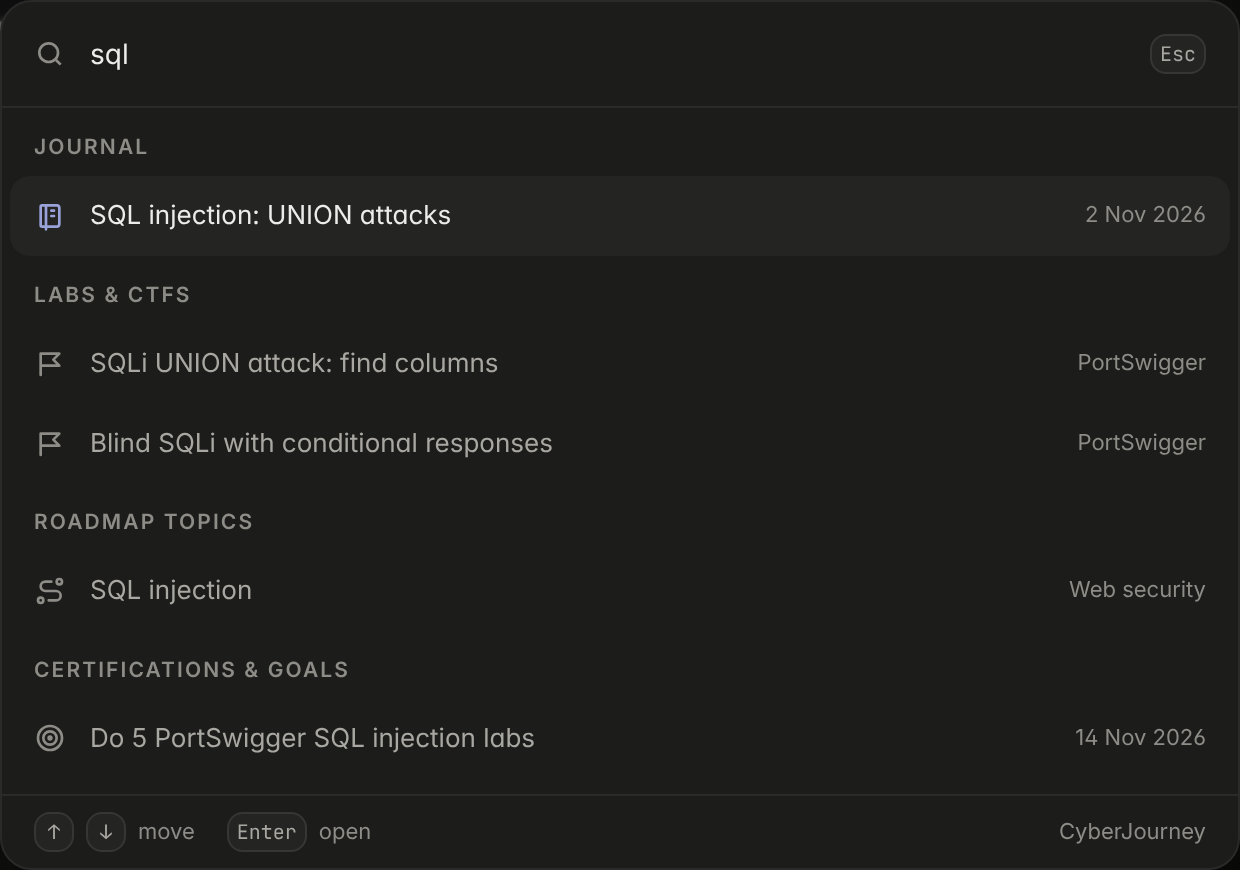
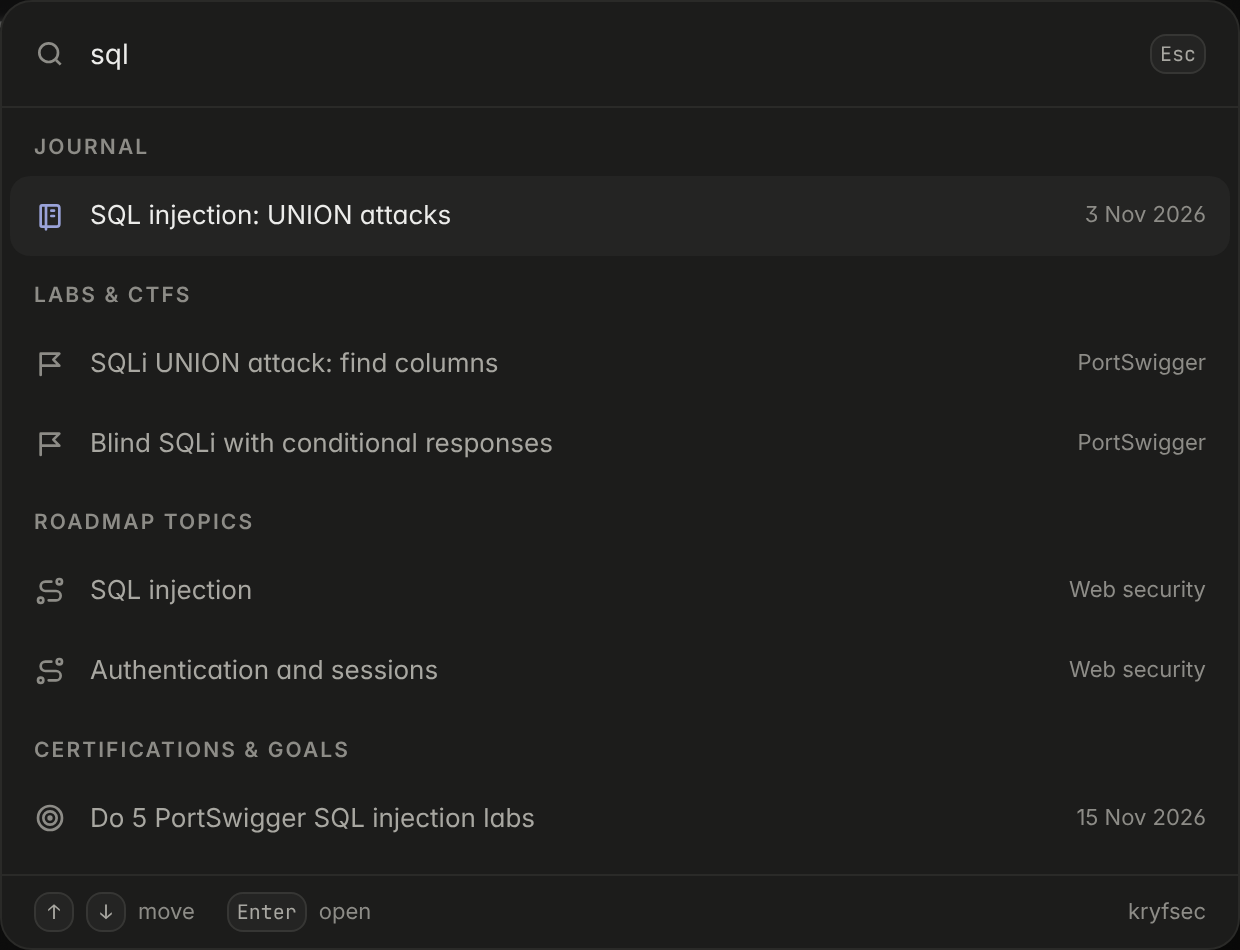
Rename the app to kryfsec and copy data from the old app folder
- productName, appId (com.kryfsec.desktop), window title, HTML title, UI text,
  export file names and installer names now use kryfsec
- data file is now <userData>/kryfsec.json; on first start the old
  CyberJourney data file and its .bak are copied over (old files are kept)
- refresh screenshots that show the name

diff --git a/electron/main.ts b/electron/main.ts
@@ -1,9 +1,31 @@
 import { app, BrowserWindow, dialog, ipcMain, nativeTheme, shell } from 'electron'
-import { existsSync, mkdirSync, writeFileSync } from 'node:fs'
+import { copyFileSync, existsSync, mkdirSync, writeFileSync } from 'node:fs'
 import { readFile, rename, writeFile, copyFile } from 'node:fs/promises'
 import { join } from 'node:path'
 
-const DATA_FILE = (): string => join(app.getPath('userData'), 'cyberjourney.json')
+const DATA_FILE = (): string => join(app.getPath('userData'), 'kryfsec.json')
+
+// One-time move from the old app name. Older versions saved their data in
+// <appData>/<old name>/<old name>.json. If the new file is not there yet,
+// copy the old file (and its .bak) over. The old files are left in place.
+const OLD_DIR_NAMES = ['Cyber' + 'Journey', 'cyber' + 'journey']
+const OLD_FILE_NAME = 'cyber' + 'journey.json'
+function migrateOldData(): void {
+  try {
+    const file = DATA_FILE()
+    if (existsSync(file) || existsSync(file + '.bak')) return
+    for (const dirName of OLD_DIR_NAMES) {
+      const oldFile = join(app.getPath('appData'), dirName, OLD_FILE_NAME)
+      if (!existsSync(oldFile) && !existsSync(oldFile + '.bak')) continue
+      mkdirSync(app.getPath('userData'), { recursive: true })
+      if (existsSync(oldFile)) copyFileSync(oldFile, file)
+      if (existsSync(oldFile + '.bak')) copyFileSync(oldFile + '.bak', file + '.bak')
+      return
+    }
+  } catch (err) {
+    console.error('Could not copy data from the old app folder', err)
+  }
+}
 
 let win: BrowserWindow | null = null
 let lastMaxChange = 0
@@ -22,7 +44,7 @@ function createWindow(): void {
     resizable: true,
     maximizable: true,
     minimizable: true,
-    title: 'CyberJourney',
+    title: 'kryfsec',
     icon: join(__dirname, '../../resources/icon.png'),
     webPreferences: {
       preload: join(__dirname, '../preload/preload.js'),
@@ -68,6 +90,7 @@ function createWindow(): void {
 
 // --- Data persistence: one JSON file in userData, atomic write + backup ---
 ipcMain.handle('data:load', async () => {
+  migrateOldData()
   const file = DATA_FILE()
   for (const f of [file, file + '.bak']) {
     try {
@@ -162,7 +185,7 @@ async function runScreenshots(w: BrowserWindow, dir: string): Promise<void> {
   app.quit()
 }
 
-if (process.platform === 'win32') app.setAppUserModelId('io.github.0xbasinas.cyberjourney')
+if (process.platform === 'win32') app.setAppUserModelId('com.kryfsec.desktop')
 
 if (!process.env['CJ_SCREENSHOT_DIR'] && !app.requestSingleInstanceLock()) app.quit()
 app.on('second-instance', () => {

diff --git a/src/pages/Settings.tsx b/src/pages/Settings.tsx
@@ -32,11 +32,11 @@ export default function Settings(): React.JSX.Element {
   const sampleCount = [s.logs, s.labs, s.resources, s.certs, s.goals].reduce((a, l) => a + l.filter((x) => x.sample).length, 0)
 
   const exportJson = async (): Promise<void> => {
-    const p = await window.api.saveFile(`cyberjourney-backup-${stamp}.json`, JSON.stringify(pickData(s), null, 2), [{ name: 'JSON backup', extensions: ['json'] }])
+    const p = await window.api.saveFile(`kryfsec-backup-${stamp}.json`, JSON.stringify(pickData(s), null, 2), [{ name: 'JSON backup', extensions: ['json'] }])
     if (p) toast.success('Backup saved', { description: p })
   }
   const exportMd = async (): Promise<void> => {
-    const p = await window.api.saveFile(`cyberjourney-${stamp}.md`, toMarkdown(pickData(s)), [{ name: 'Markdown', extensions: ['md'] }])
+    const p = await window.api.saveFile(`kryfsec-${stamp}.md`, toMarkdown(pickData(s)), [{ name: 'Markdown', extensions: ['md'] }])
     if (p) toast.success('Markdown exported', { description: p })
   }
   const importJson = async (): Promise<void> => {
@@ -49,7 +49,7 @@ export default function Settings(): React.JSX.Element {
       data = null
     }
     if (!data) {
-      toast.error('This file is not a CyberJourney backup')
+      toast.error('This file is not a kryfsec backup')
       return
     }
     if (await confirm('Replace your data?', `The backup has ${data.logs.length} journal entries and ${data.labs.length} labs. Your current data will be replaced. Tip: export a backup first.`, 'Replace')) {
@@ -200,7 +200,7 @@ export default function Settings(): React.JSX.Element {
             ))}
           </div>
         </Card>
-        <p className="text-center text-[11px] text-faint">CyberJourney {version} · made for your learning journey</p>
+        <p className="text-center text-[11px] text-faint">kryfsec {version} · made for your learning journey</p>
       </div>
     </div>
   )

diff --git a/src/lib/export.ts b/src/lib/export.ts
@@ -7,7 +7,7 @@ export function toMarkdown(d: AppData): string {
   const topic = (id?: string): string => d.topics.find((t) => t.id === id)?.title ?? ''
   const mark = { todo: '[ ]', learning: '[~]', done: '[x]' } as const
 
-  out.push(`# My cybersecurity journey`, '', `_Exported from CyberJourney on ${fmtDate(new Date().toISOString())}_`, '')
+  out.push(`# My cybersecurity journey`, '', `_Exported from kryfsec on ${fmtDate(new Date().toISOString())}_`, '')
   out.push(`- Journal entries: ${d.logs.length} (${fmtHours(d.logs.reduce((a, l) => a + l.minutes, 0))} total)`)
   out.push(`- Labs solved: ${d.labs.filter((l) => l.status === 'done').length} of ${d.labs.length}`)
   out.push(`- Topics done: ${d.topics.filter((t) => t.status === 'done').length} of ${d.topics.length}`, '')

diff --git a/src/components/palette.tsx b/src/components/palette.tsx
@@ -124,7 +124,7 @@ export function CommandPalette(): React.JSX.Element {
             <div className="flex items-center gap-4 border-t border-line px-4 py-2 text-[11px] text-faint">
               <span className="flex items-center gap-1.5"><Kbd>↑</Kbd><Kbd>↓</Kbd> move</span>
               <span className="flex items-center gap-1.5"><Kbd>Enter</Kbd> open</span>
-              <span className="ml-auto">CyberJourney</span>
+              <span className="ml-auto">kryfsec</span>
             </div>
           </Command>
         </D.Content>

diff --git a/index.html b/index.html
@@ -6,7 +6,7 @@
       http-equiv="Content-Security-Policy"
       content="default-src 'self'; script-src 'self'; style-src 'self' 'unsafe-inline'; img-src 'self' data:; font-src 'self' data:; connect-src 'self' ws://localhost:* http://localhost:*"
     />
-    <title>CyberJourney</title>
+    <title>kryfsec</title>
   </head>
   <body>
     <div id="root"></div>

diff --git a/README.md b/README.md
@@ -23,13 +23,12 @@ There is also a phone app: [kryfsec-mobile](https://github.com/0xbasinas/kryfsec
 
 ## Install
 
-The app and its files still use the old name *CyberJourney* for now.
-
-- **Windows:** run `CyberJourney-Setup-<version>-x64.exe`. The installer is not signed, so Windows SmartScreen may say "Windows protected your PC" → click **More info → Run anyway**. A portable `.zip` is also built.
+- **Windows:** run `kryfsec-Setup-<version>-x64.exe`. The installer is not signed, so Windows SmartScreen may say "Windows protected your PC" → click **More info → Run anyway**. A portable `.zip` is also built.
 - **Linux:** `chmod +x CyberJourney-<version>-x86_64.AppImage` and run it.
 
-Your data is one file: `cyberjourney.json` in the app data folder
-(Windows: `%APPDATA%\CyberJourney`). Settings → *Your data* shows the exact path. A `.bak` copy is kept next to it.
+Your data is one file: `kryfsec.json` in the app data folder
+(Windows: `%APPDATA%\kryfsec`). Settings → *Your data* shows the exact path. A `.bak` copy is kept next to it.
+If you used the app under its old name, your data is copied over the first time kryfsec starts (the old file is kept).
 
 ## Develop
 
